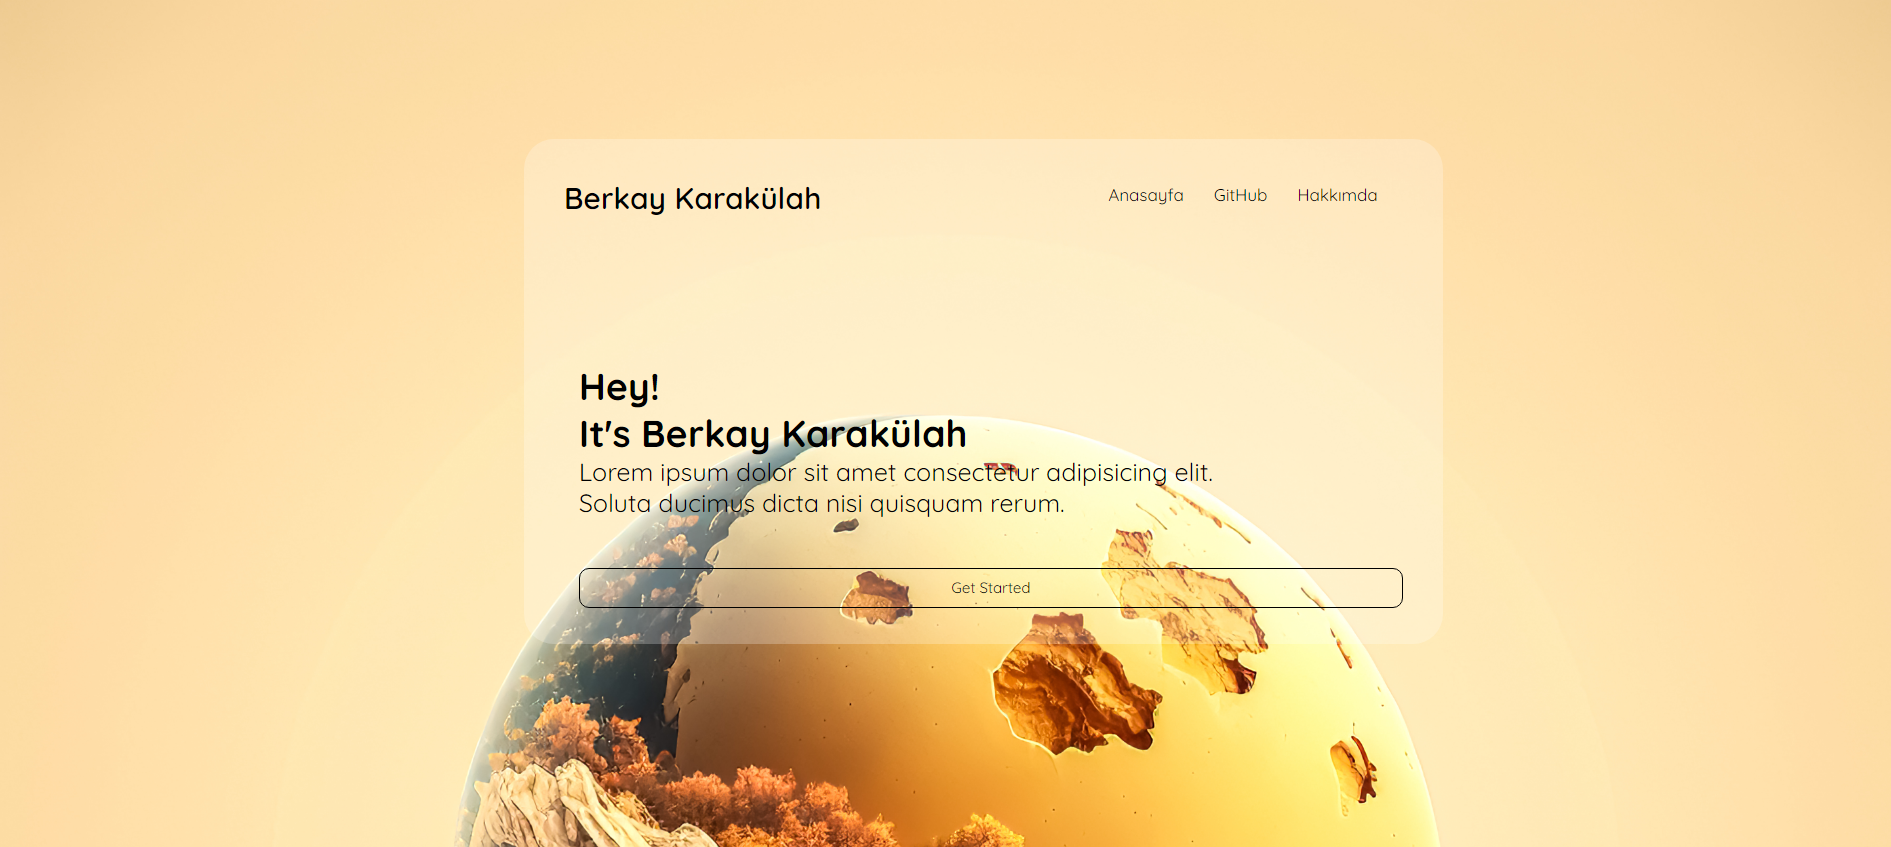
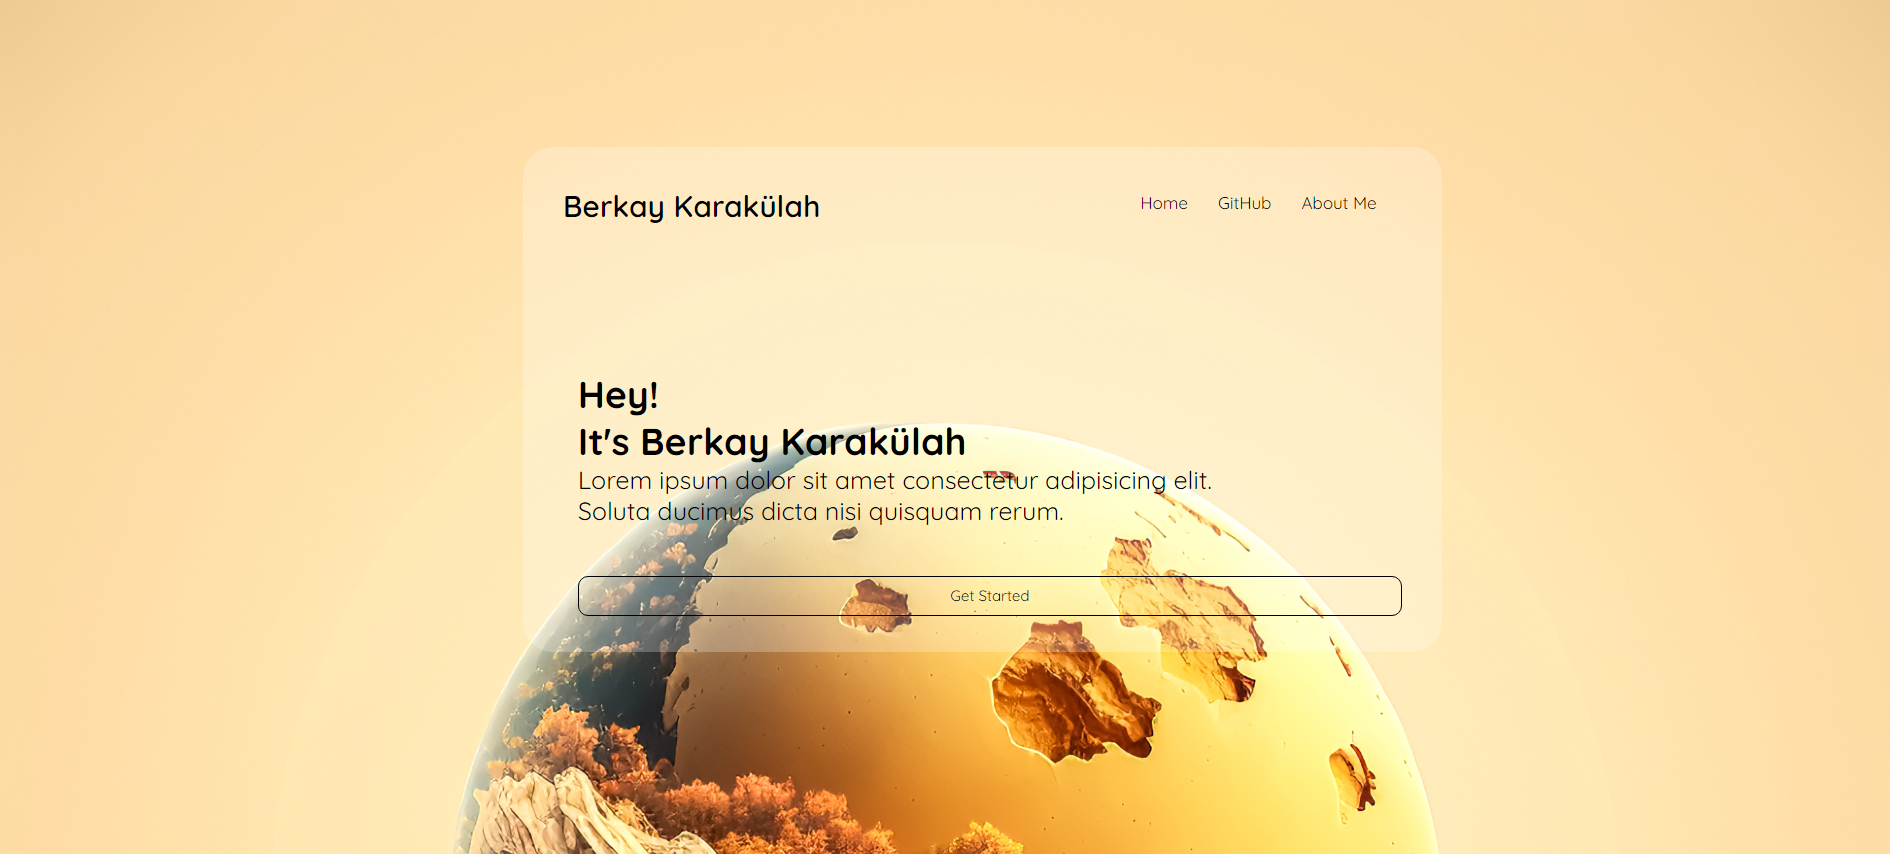
update-project

diff --git a/index.html b/index.html
@@ -13,9 +13,9 @@
             <nav class="navbar">
                 <div class="logo"><a href="#">Berkay Karakülah</a></div>
                 <ul class="nav-links">
-                    <li class="nav-link"><a href="#">Anasayfa</a></li>
+                    <li class="nav-link"><a href="#">Home</a></li>
                     <li class="nav-link"><a href="#">GitHub</a></li>
-                    <li class="nav-link"><a href="#">Hakkımda</a></li>
+                    <li class="nav-link"><a href="#">About Me</a></li>
                 </ul>
             </nav>
             <div class="content">
